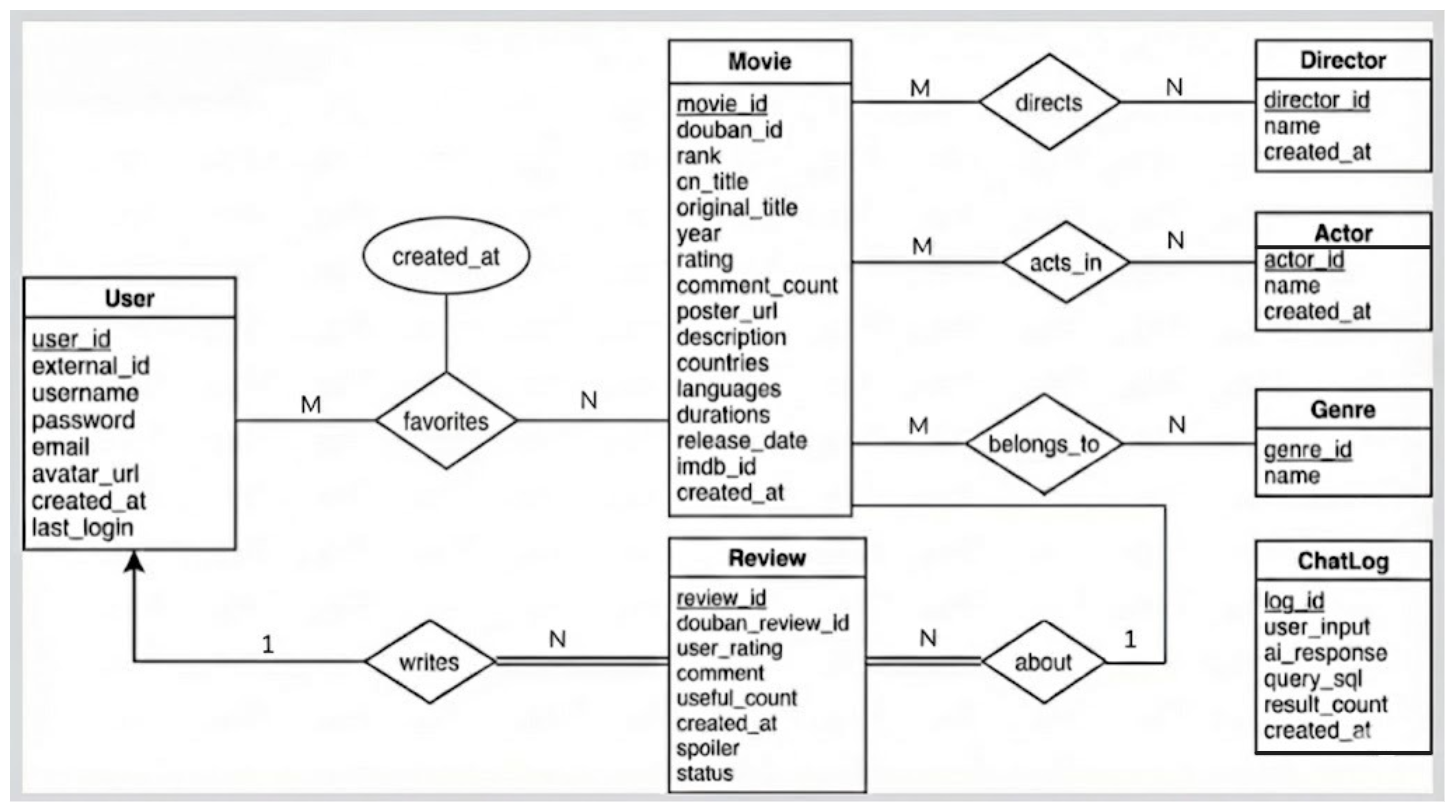
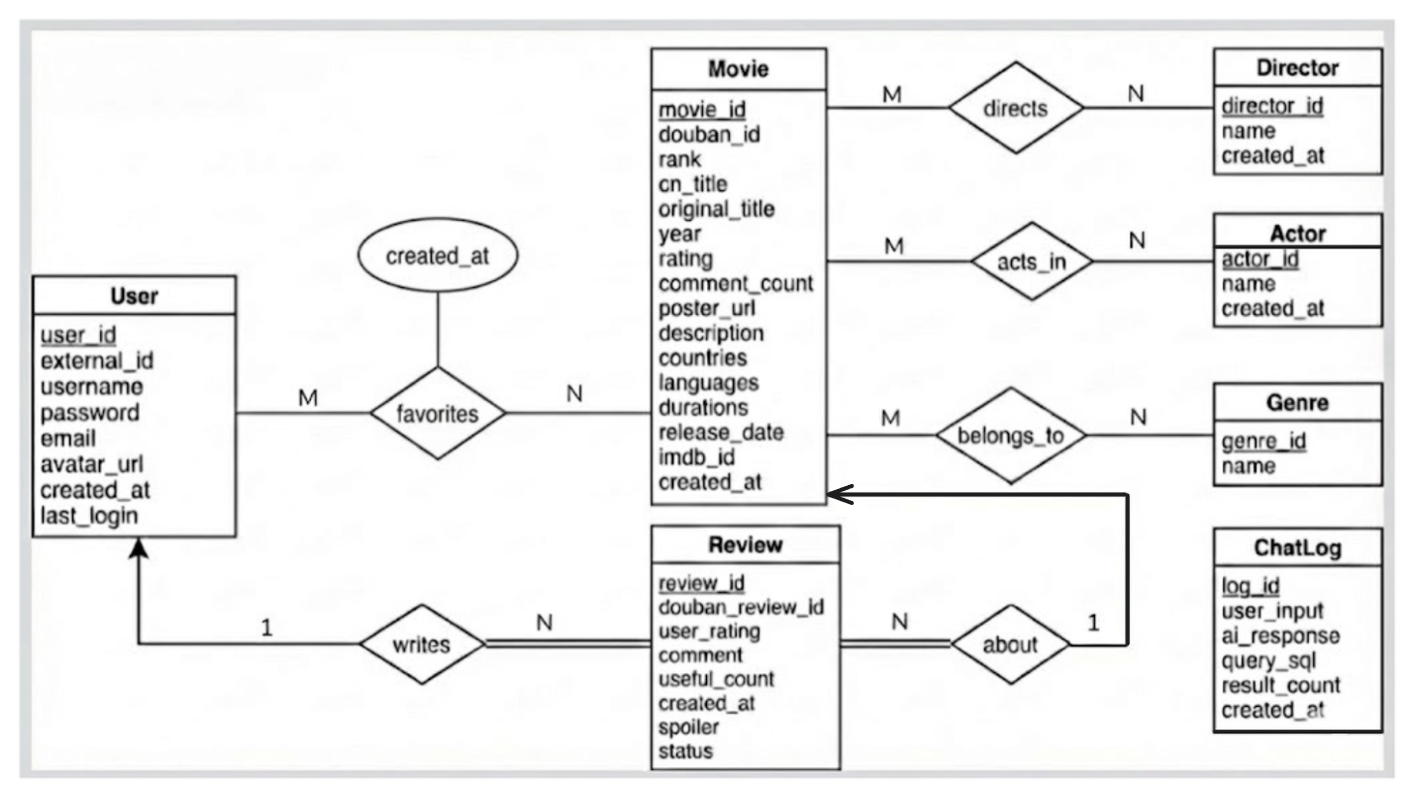
感人的结语&ER图更新

Changed region(s): [[0.0, 0.0, 0.9965, 0.9937]]

diff --git a/实验报告.md b/实验报告.md
@@ -670,3 +670,7 @@ MovieMind 项目成功构建了一个基于 **openGauss** 数据库与 **DeepSee
 | :--- | :--- | :--- |
 | **丁子睿** | 23336058 | **1. 后端核心研发**: 负责 Flask 后端架构搭建、核心 API 开发及 AI 智能服务 (Text-to-SQL/RAG) 的深度集成。<br>**2. 数据库构建与调优**: 执行 openGauss 数据库的物理部署、表结构实施及索引性能优化。<br>**3. 前端协同与接口联调**: 协助实现部分前端组件，并主导前后端 API 接口的数据绑定与全链路测试。<br>**4. 项目交付与品控**: 负责演示视频的高质量制作，以及实验报告的最终审核与技术校对。 |
 | **苟一霏** | 23336075 | **1. 系统架构与设计**: 负责系统总体架构设计、技术选型及数据库模型 (E-R/Schema) 的规范化设计。<br>**2. 前端架构设计与主导实现**: 搭建前端 SPA 框架，实现响应式 UI 设计及基于 Chart.js 的数据可视化模块，主导前端整体开发。<br>**3. 后端基础与数据工程**: 负责 openGauss 环境配置、连接池调优及 ETL 管道构建，并参与后端基础工具类的封装。<br>**4. 核心文档撰写**: 主导实验报告的主体撰写，负责技术方案的系统性梳理与文档化。 |
+
+在本学期的大作业实现中，团队的两位成员均付出了巨大的努力，并在不同阶段中发挥了关键作用。项目的顺利完成是团队集体智慧与辛勤付出的结晶，不存在所谓的"个人英雄主义"，每一位成员的贡献都是不可或缺的。 因此，我们希望强调：本报告旨在展示团队的协作精神与集体成果，而非突出个人。
+
+本作业的两位成员对于数据库课程一直抱有极高的热情：在学期初期，我们共同以“OB干饭团”的身份参与了miniOB数据库大赛，虽然遗憾队伍未能进入决赛，但也取得了广东省第六，中山大学第三的初赛成绩；在学期末的考试准备过程中，两位成员也携手共进、取长补短，持续在复习过程中互相促进、共同进步，解决了很多在理论知识上仍存的困惑。因此，恳请审阅本报告的老师与助教能够关注到团队在一学期以来的课程当中的整体努力与每位成员的积极付出！再次感谢您们的支持与指导！
